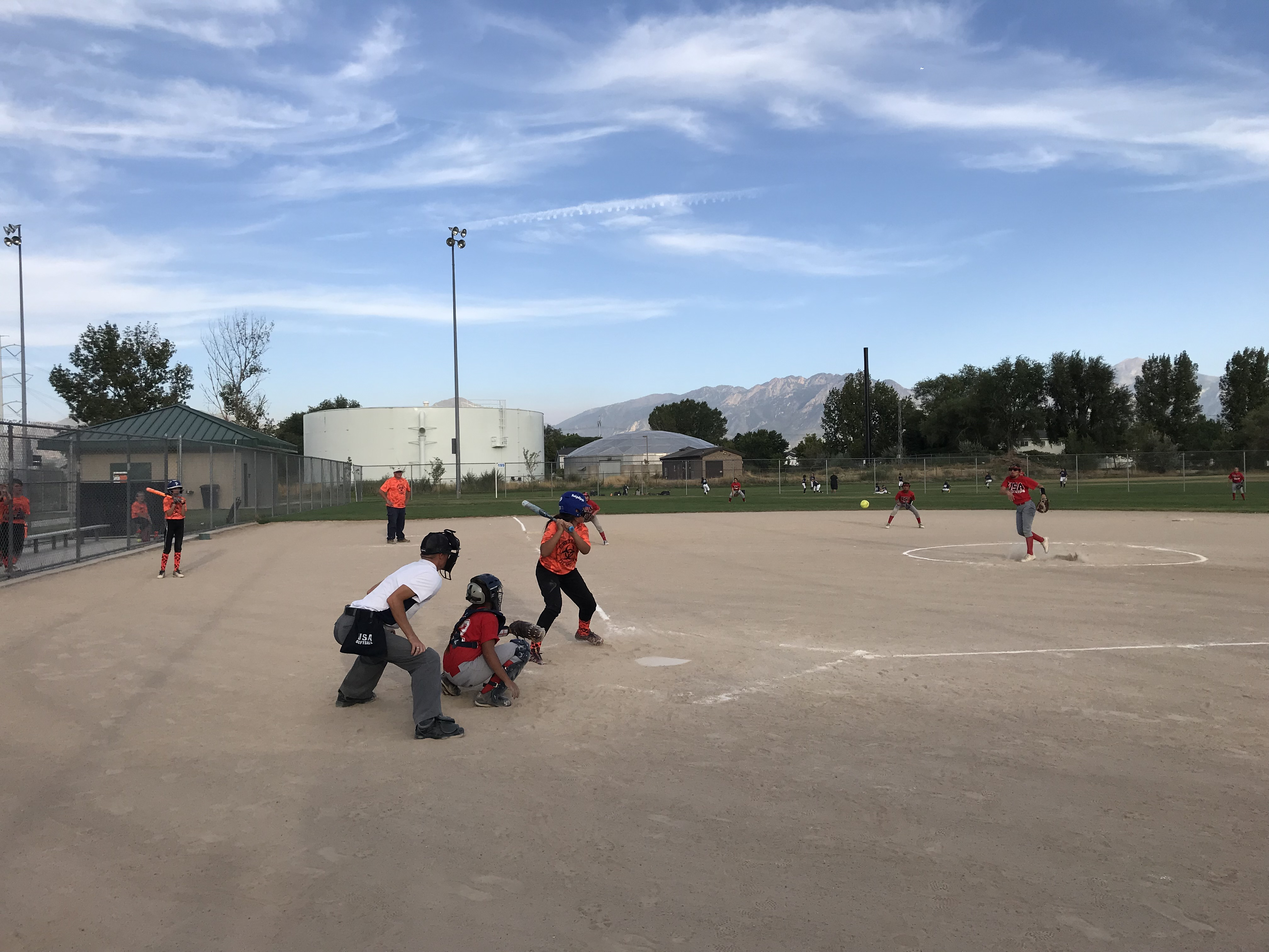
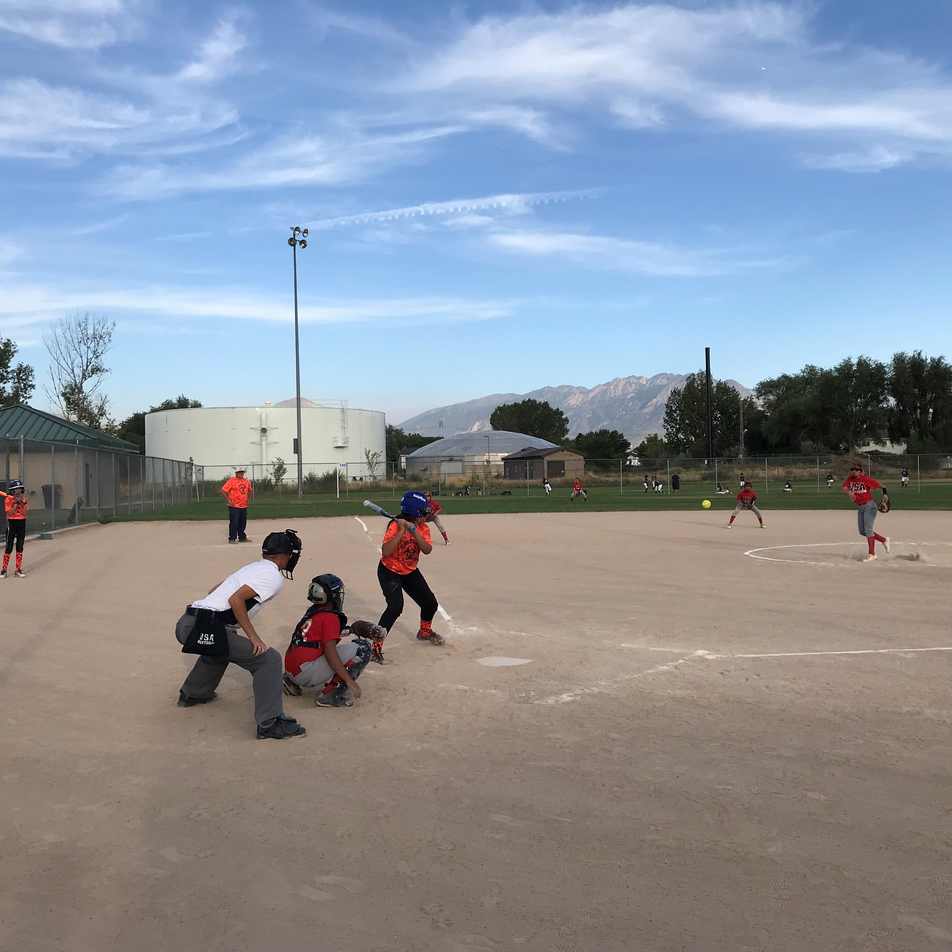
images

diff --git a/index.html b/index.html
@@ -165,7 +165,7 @@
 					</a>
 				</div>
 				<div class="col-md-4 col-sm-6 fh5co-project animate-box" data-animate-effect="fadeIn">
-					<a href="https://youtu.be/4ScqSGR5dOU" class="btn link-watch popup-vimeo"><img src="images/usa-no-bg.png" alt="Torin Turner" class="img-responsive">
+					<a href="https://youtu.be/4ScqSGR5dOU" class="btn link-watch popup-vimeo"><img src="images/walking.JPG" alt="Torin Turner" class="img-responsive">
 						<h3>Video</h3>
 					</a>
 				</div>
